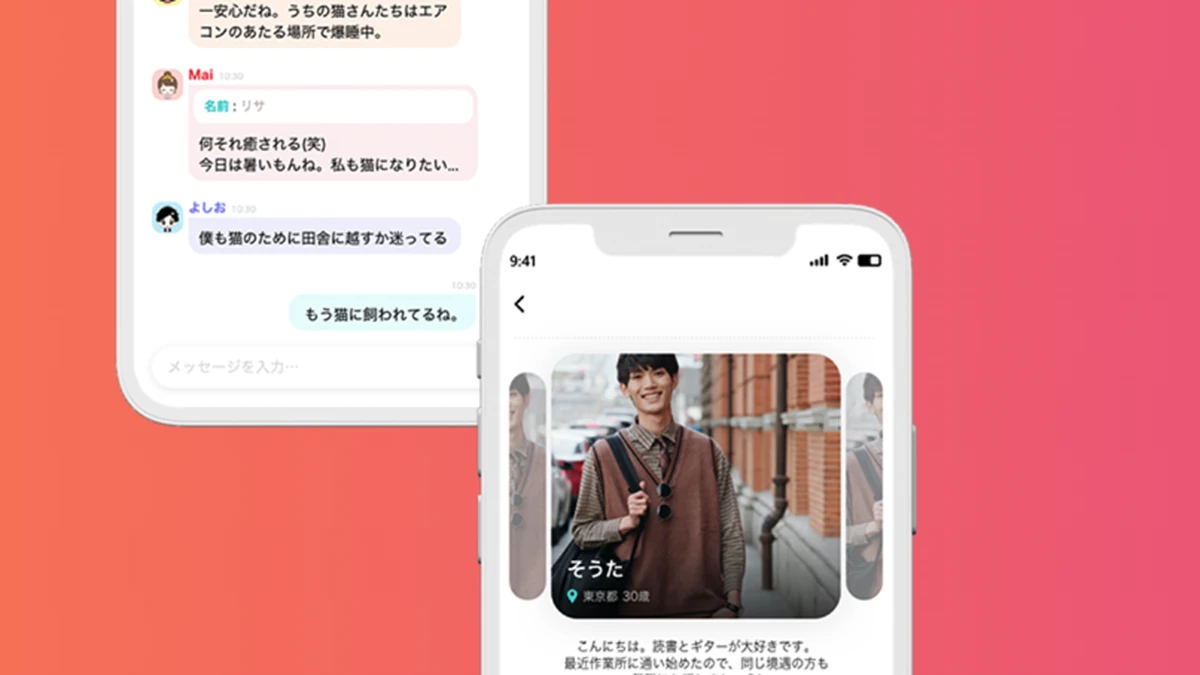
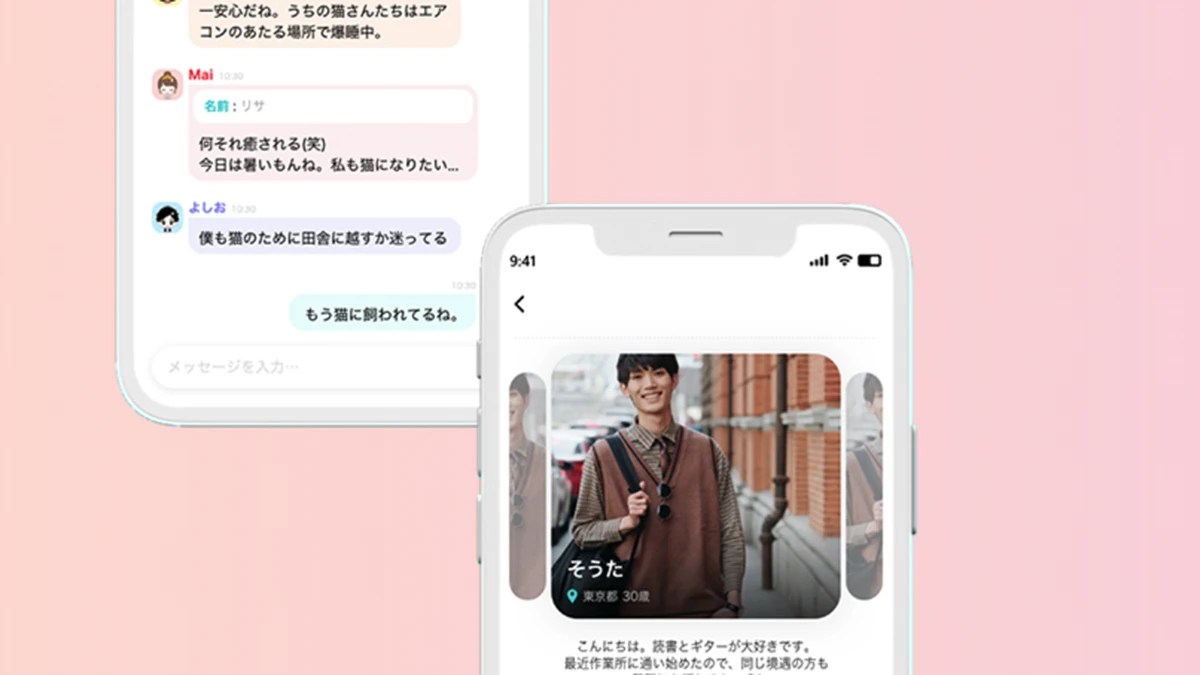
障がい者向け交流アプリの画像の背景を薄くし、本文中の画面例を削除
Claude-Session: https://claude.ai/code/session_019582yByhDjt453RmjZDW95

diff --git a/cases/disabled-community.html b/cases/disabled-community.html
@@ -265,10 +265,6 @@
   <li><strong>施設向け簡易連絡帳 & 記録管理ダッシュボード</strong>: 日々の利用実績や連絡事項をスマホ・タブレットから簡単入力できる施設専用ポータルを提供。</li>
   <li><strong>高セキュリティな個人情報・医療情報保護</strong>: 暗号化ストレージと細粒度アクセス権限により、要配慮個人情報を厳格に保護。</li>
 </ul>
-              <figure style="margin: 2.4rem 0 0;">
-                <img src="../case_disabled_community_screens.webp" alt="アプリの実際の画面（一部）" loading="lazy" decoding="async" width="941" height="329" style="width: 100%; height: auto; border-radius: 1.2rem; display: block;">
-                <figcaption style="margin-top: 0.8rem; font-size: 1.3rem; color: var(--text-secondary, #64748b); text-align: center;">アプリの実際の画面（一部）</figcaption>
-              </figure>
             </div>
 
             <!-- Strength & Effect -->
